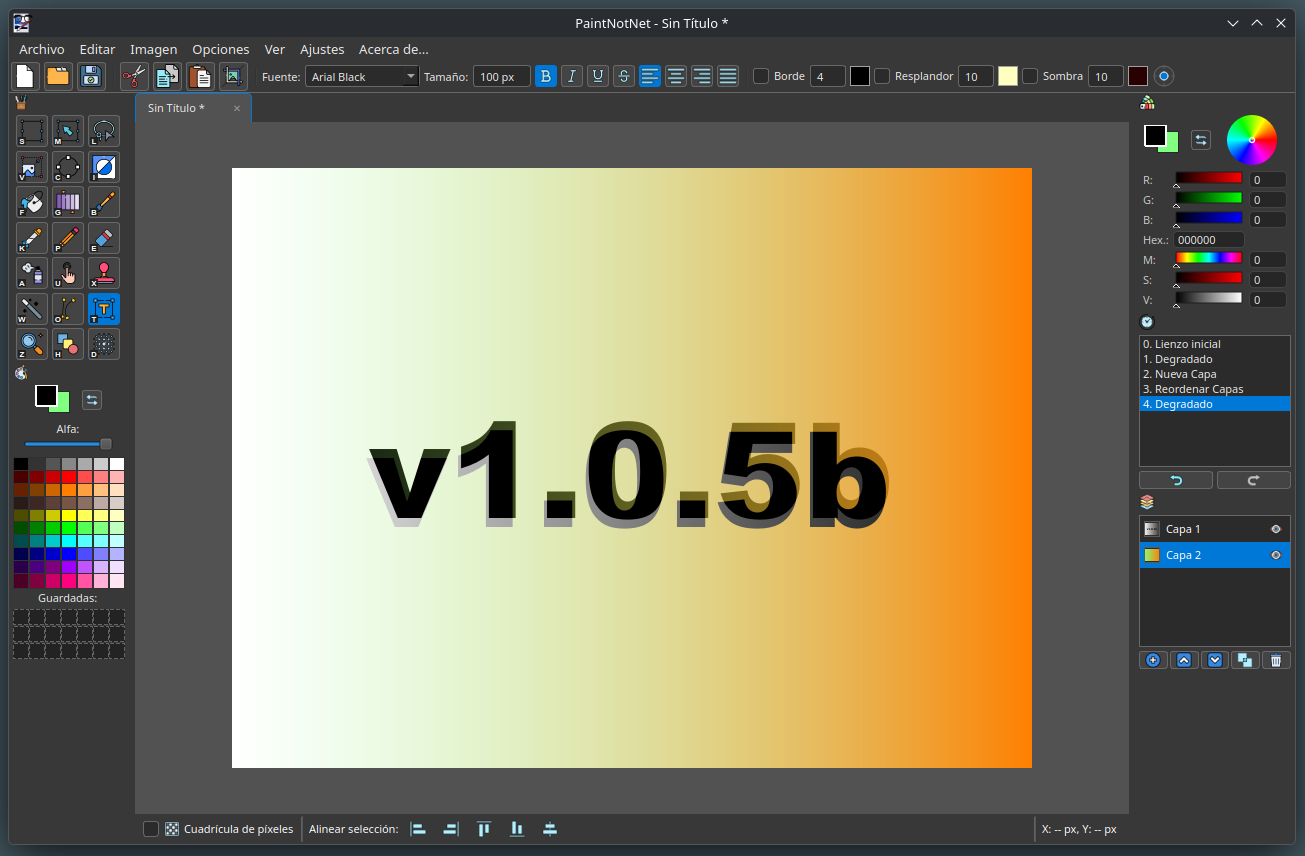
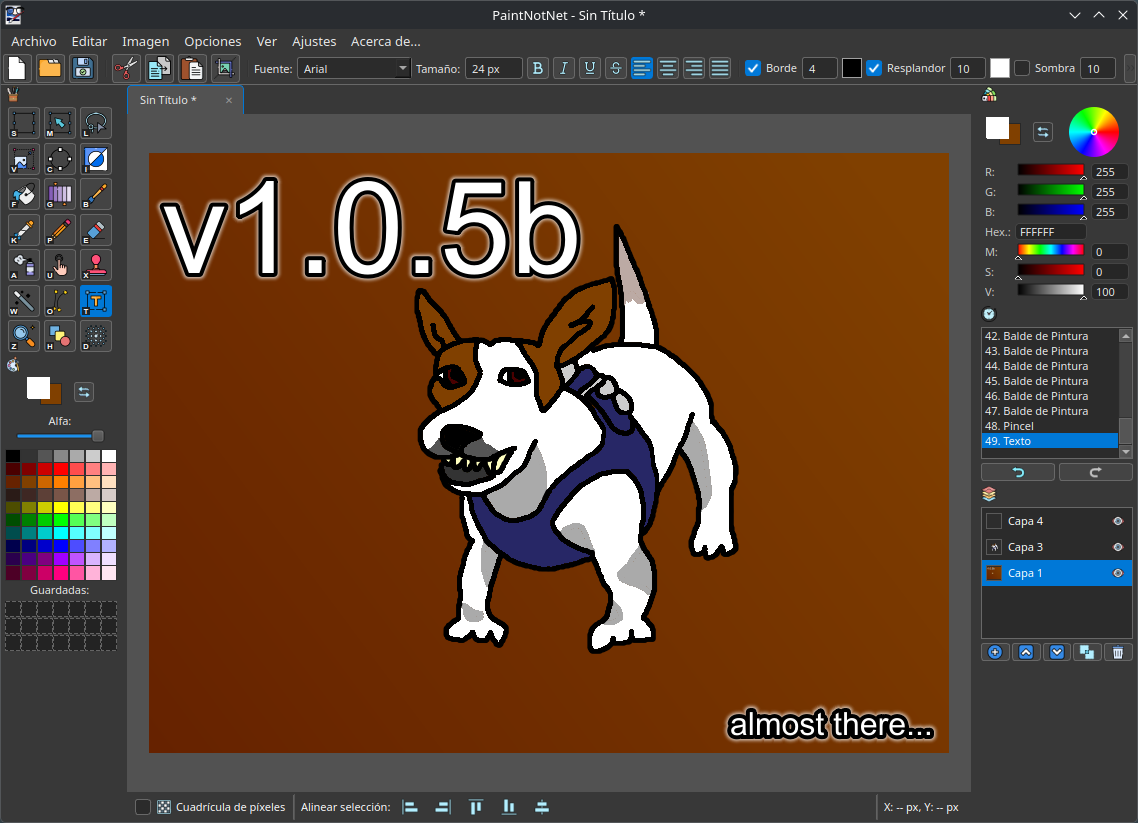
v1.0.5b

diff --git a/gui/menu_archivo.py b/gui/menu_archivo.py
@@ -26,12 +26,14 @@ class DialogoNuevoArchivo(QDialog):
 
         cb = QApplication.clipboard()
         cb_img = cb.image() if cb else None
-        if saved_w and saved_h and saved_w > 0 and saved_h > 0:
-            def_w = saved_w
-            def_h = saved_h
-        elif cb_img and not cb_img.isNull() and cb_img.width() > 0 and cb_img.height() > 0:
+        has_clipboard_img = cb_img and not cb_img.isNull() and cb_img.width() > 0 and cb_img.height() > 0
+
+        if has_clipboard_img:
             def_w = cb_img.width()
             def_h = cb_img.height()
+        elif saved_w and saved_h and saved_w > 0 and saved_h > 0:
+            def_w = saved_w
+            def_h = saved_h
         else:
             def_w = 800
             def_h = 600
